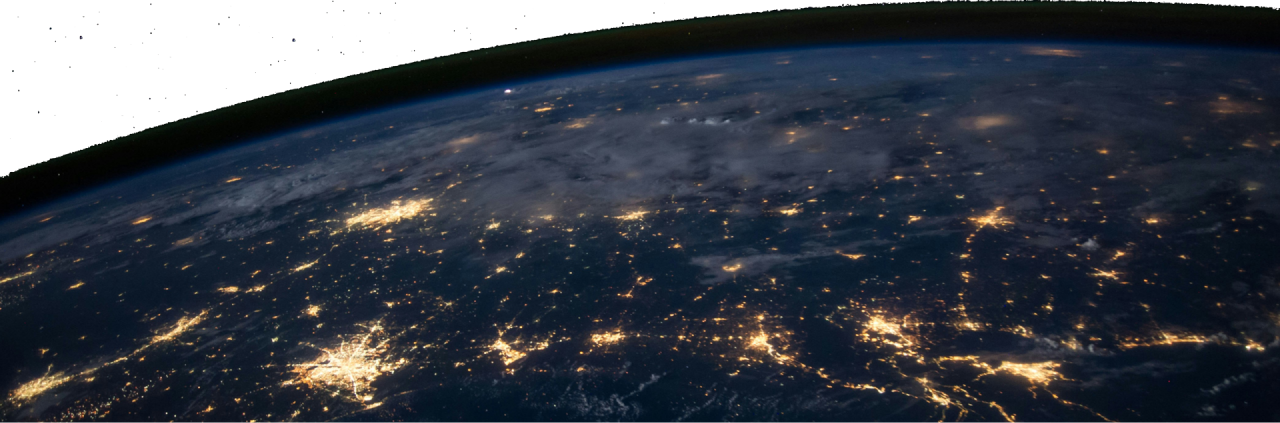
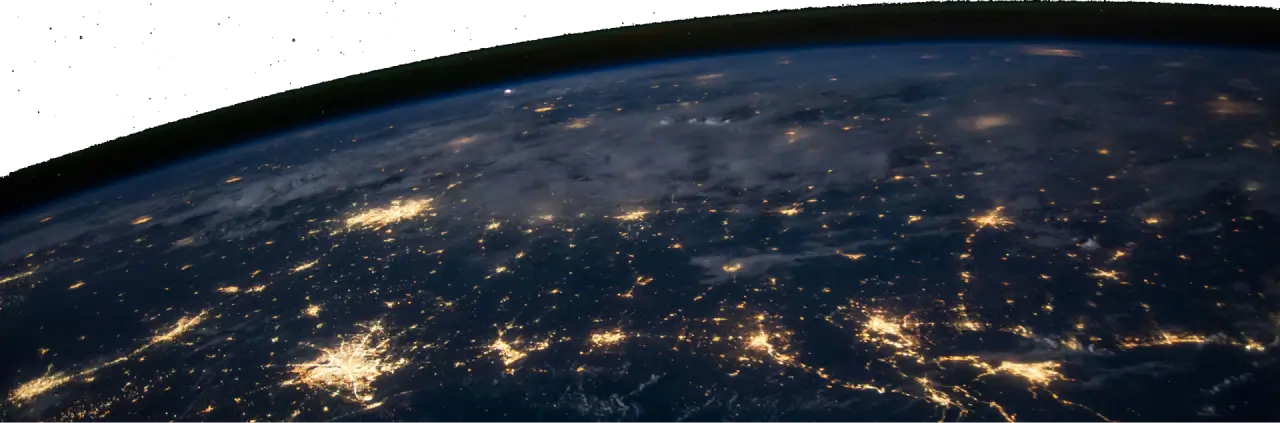
.

Changed region(s): [[0.2188, 0.8913, 0.25, 0.922]]

diff --git a/pages/index.vue b/pages/index.vue
@@ -145,7 +145,7 @@
 			<div class="row">
 				<div class="col-xl-7 order-1 order-lg-0">
 					<div class="why-choose-left-image mb-40 wow fadeInLeft delay-0-2s">
-						<img src="/assets/images/services/why-choose-left.webp" alt="Why Choose Left" width="1920" height="1920" class="image-rounded" />
+						<img src="/assets/images/services/why-choose-left.webp" alt="Why Choose Left" width="1280" height="1280" class="image-rounded" />
 					</div>
 				</div>
 				<div class="col-xl-5 order-0 order-lg-1">
